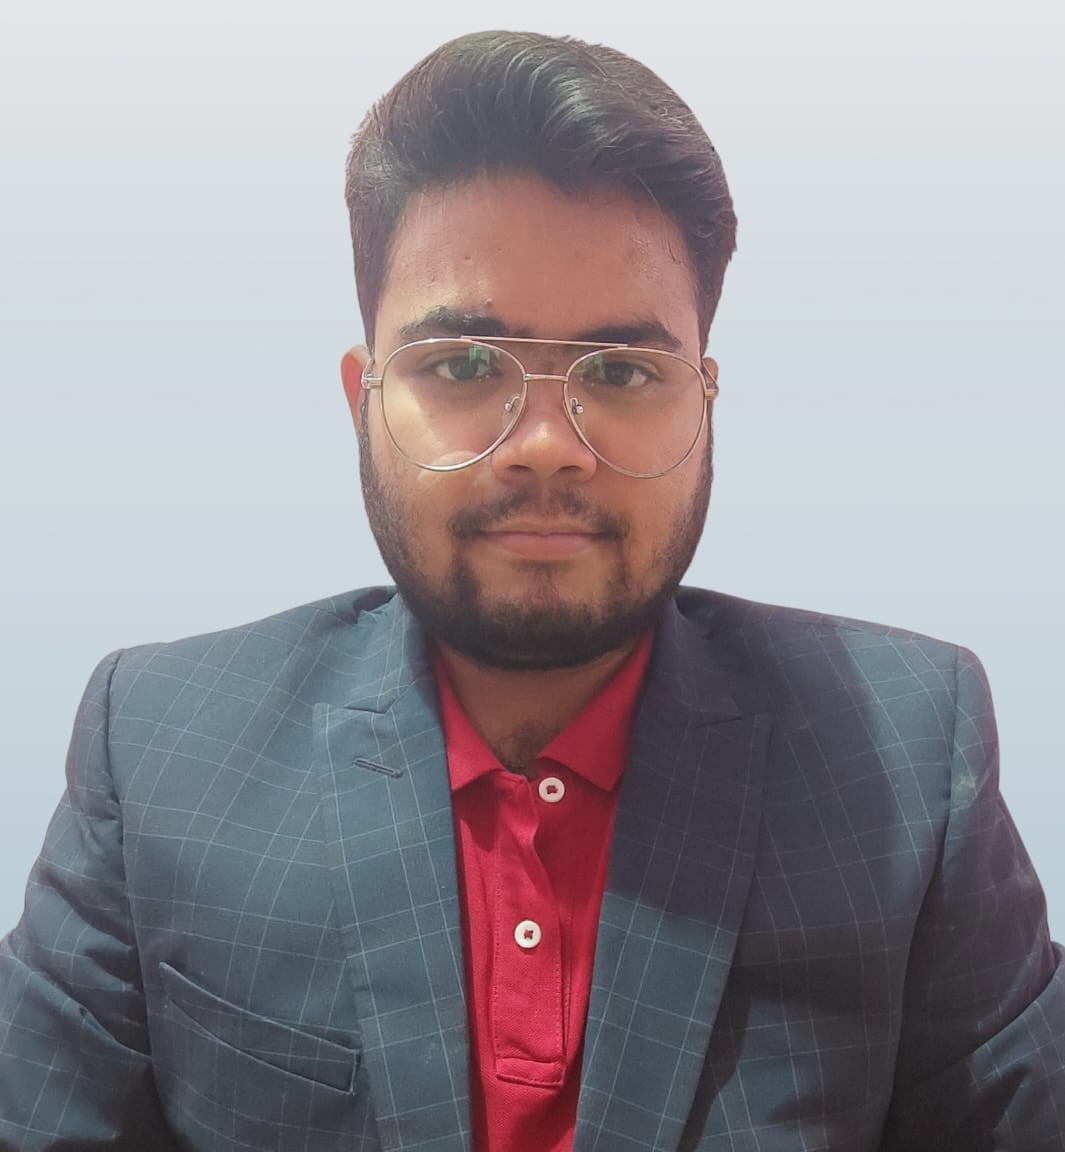
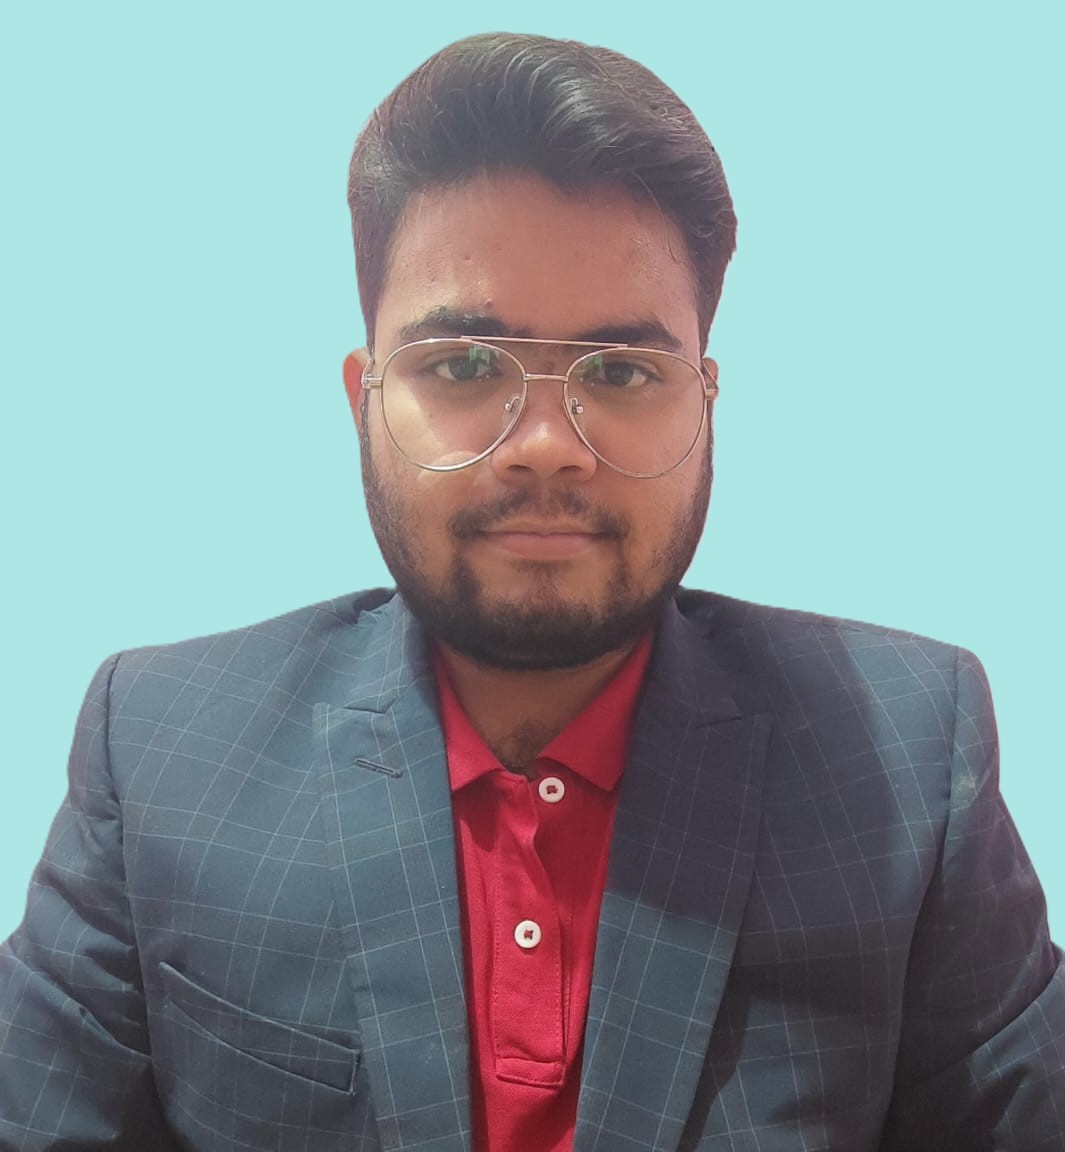
team page change, add suraj pic, remove suraj contact from contact us

diff --git a/src/components/about/AboutMeBio.jsx b/src/components/about/AboutMeBio.jsx
@@ -6,32 +6,36 @@ const AboutMeBio = () => {
 	const { aboutMe } = useContext(AboutMeContext);
 
 	return <>
+	{/* <div className='text-center'>
+		<h1>Three passionate developers, one powerful team. Leveraging 4+, 3, and 2 years of expertise to craft the future of technology</h1>
+	</div> */}
+	<div className="text-center">
+      <h1 className=" text-primary-dark dark:text-primary-light text-lg" style={{ fontSize: '25px'}}>
+        <b>Our Team</b>
+      </h1>
+      <h6 className=" text-primary-dark dark:text-primary-light text-lg" style={{marginTop:'5px'}} >
+	  Three passionate developers, one powerful team. Leveraging 4+, 3, and 2 years of expertise to craft the future of technology. <br/>
+          Comprehensive IT Solutions & Professional Services, Delivered in Real-Time.
+      </h6>
+    </div>
+	<div className="flex flex-row flex-wrap p-3 m-3 justify-center">
 		{teamDetails.map((item) => {
 			return (
 
-				<div className="block sm:flex sm:gap-10 mt-10 sm:mt-20">
-					<div className="w-full sm:w-1/4 mb-7 sm:mb-0">
-						<img src={item.img} alt={item.name} className="rounded-lg w-96" />
-						<h4 className='text-center text-ternary-dark dark:text-ternary-light'>
+				
+					<div className="w-full sm:w-1/4 mb-7 sm:mb-0 p-5px m-5px">
+						<img src={item.img} alt={item.name} className="rounded-lg w-96 h-2-4" />
+						<h4 className='text-center text-ternary-dark dark:text-ternary-light' style={{margin:'5px'}}>
 							{item.name}  <br />
 							{item.designation} <br />
 							{item.experience} Year's of experience.
 						</h4>
 					</div>
 
-					<div className="font-general-regular w-full sm:w-3/4 text-left">
-
-						<p
-							className="mb-4 text-ternary-dark dark:text-ternary-light text-lg"
-							key={item.id}
-						>
-							{item.description}
-						</p>
-
-					</div>
-				</div>
+					
 			);
 		})}
+	</div>
 	</>
 };
 

diff --git a/src/portfolioDetails/portfolio.js b/src/portfolioDetails/portfolio.js
@@ -6,6 +6,7 @@ import testing from '../images/codescan-svgrepo-com.svg'
 import req from '../images/business-solution-key-to-business-svgrepo-com.svg'
 import vishalImg from '../images/vvv.jpg';
 import vikashImg from '../images/prof_vikash.jpg'
+import surajImg from '../images/suraj.jpg'
 
 const teamDetails = [
     {
@@ -23,7 +24,7 @@ const teamDetails = [
         title:"vikashPandey",
         designation:"Senior Software Developer",
         description : "I'm Full Stack Developer with 2.7+ year of experience and expertise in React, Python Flask, and Node js, I specialize in transforming complex requirements into robust technical solutions. I have successfully led projects in various domains, including costing tools, ERM systems, and travel booking platforms, focusing on enhancing performance and user experience. Skilled in both frontend and backend development.",
-        experience : "3+",
+        experience : "3",
         img: vikashImg
 
     },
@@ -33,7 +34,8 @@ const teamDetails = [
         title:"surajDas",
         designation:"Software Developer",
         description : "",
-        experience : "2+"
+        experience : "2",
+        img:surajImg
 
     }
 ]

diff --git a/src/components/shared/AppFooterCopyright.jsx b/src/components/shared/AppFooterCopyright.jsx
@@ -4,8 +4,8 @@ function AppFooterCopyright() {
 			<div className="text-lg text-ternary-dark dark:text-ternary-light">
 				&copy; {new Date().getFullYear()}
 				<a
-					href=""
-					target="__blank"
+					href="#"
+					// target="__blank"
 					className="text-secondary-dark dark:text-secondary-light font-medium uppercase hover:underline hover:text-indigo-600 dark:hover:text-indigo-300 ml-1 duration-500"
 				>
 					Beyond Apex Tech

diff --git a/src/components/contact/ContactDetails.jsx b/src/components/contact/ContactDetails.jsx
@@ -21,11 +21,11 @@ const contacts = [
 		name: '+91 6393489379  (Vikash Pandey)',
 		icon: <FiPhone />,
 	},
-	{
-		id: 6,
-		name: '+91 79784 35847  (Suraj Das)',
-		icon: <FiPhone />,
-	},
+	// {
+	// 	id: 6,
+	// 	name: '+91 79784 35847  (Suraj Das)',
+	// 	icon: <FiPhone />,
+	// },
 ];
 
 const ContactDetails = () => {
